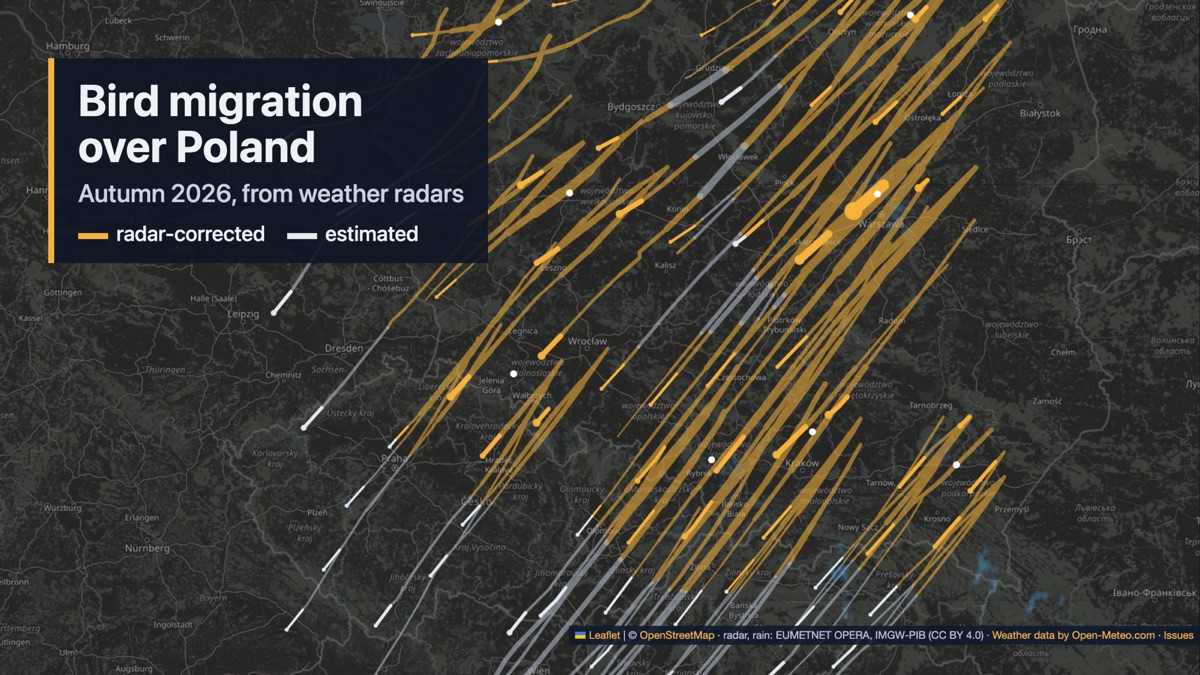
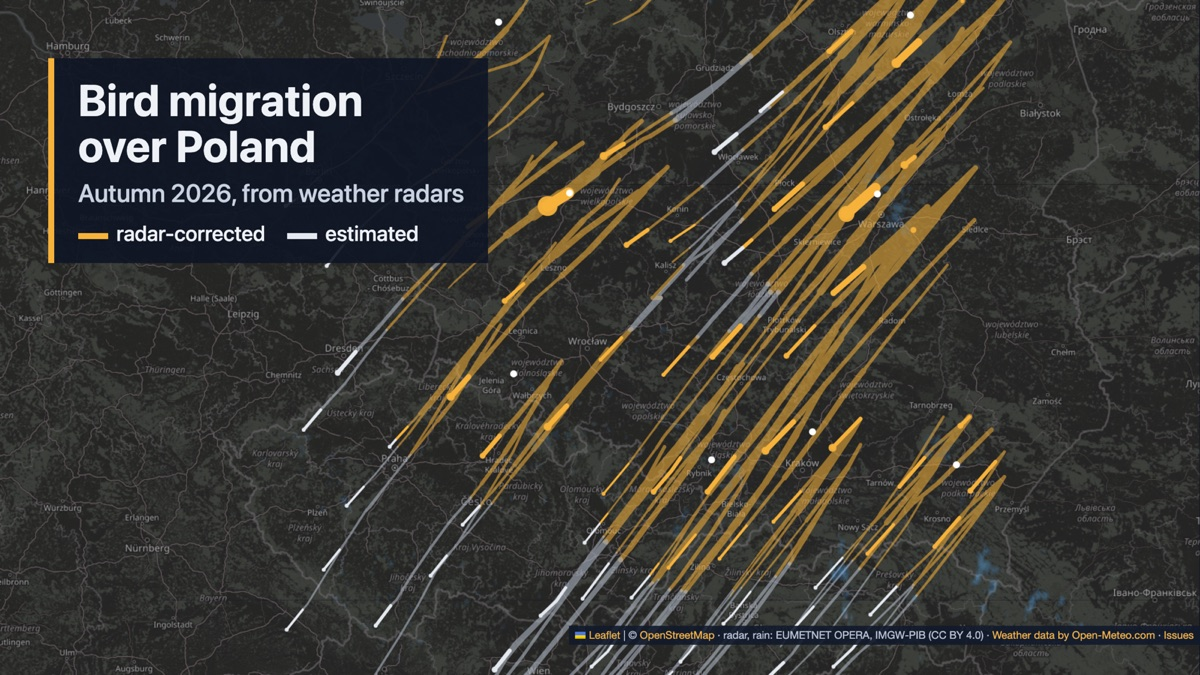
Refresh preview image after recomputation

diff --git a/index.html b/index.html
@@ -6,7 +6,7 @@
 <meta property="og:title" content="Bird migration over Poland, autumn 2026">
 <meta property="og:description" content="Interactive map of night-time bird migration, reconstructed from weather radars. English and Polish.">
 <meta property="og:url" content="https://kazek.github.io/przelot-nad-polska/">
-<meta property="og:image" content="https://kazek.github.io/przelot-nad-polska/og-image.jpg?v=3">
+<meta property="og:image" content="https://kazek.github.io/przelot-nad-polska/og-image.jpg?v=4">
 <meta property="og:image:width" content="1200">
 <meta property="og:image:height" content="675">
 <meta property="og:image:alt" content="Map of Poland with orange and grey bird migration routes heading south-west">
